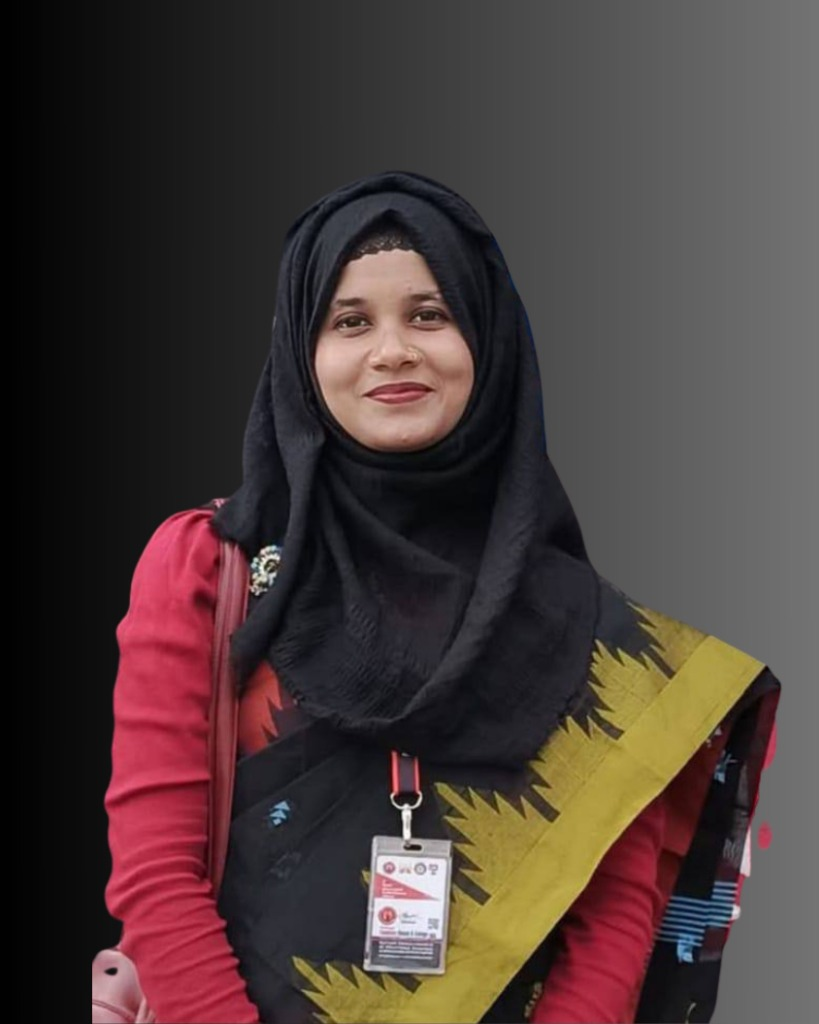
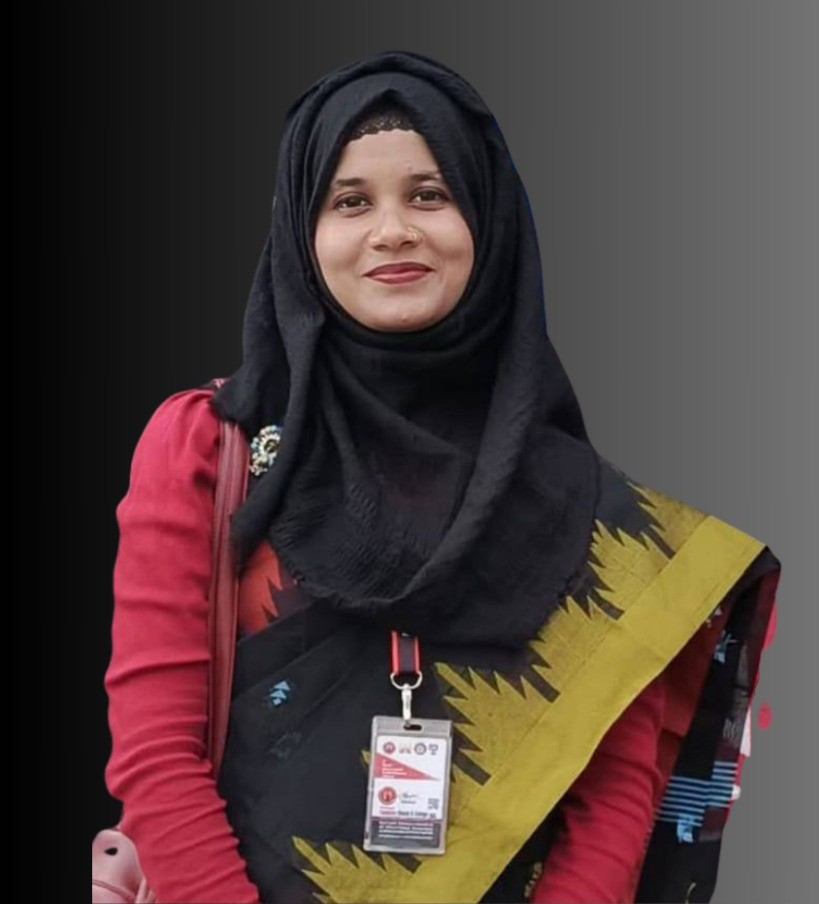
Fix hero card teacher photo cropping, height framing, and duplicate experience text

diff --git a/bioedge-frontend/src/components/home/ReferenceHeroSection.tsx b/bioedge-frontend/src/components/home/ReferenceHeroSection.tsx
@@ -84,7 +84,7 @@ export const ReferenceHeroSection: React.FC = () => {
 
               <div className="teacher-card-footer">
                 <div className="teacher-name-title">{teacher.name}</div>
-                <div className="teacher-exp-tag">{teacher.experience} Experience</div>
+                <div className="teacher-exp-tag">{teacher.experience.toLowerCase().includes('experience') ? teacher.experience : `${teacher.experience} Experience`}</div>
               </div>
             </div>
           </div>

diff --git a/bioedge-frontend/src/index.css b/bioedge-frontend/src/index.css
@@ -2046,7 +2046,7 @@ section, .public-section, .homepage-wrapper > section, [id] {
 
 .teacher-card-portrait-frame {
   width: 100%;
-  height: 155px;
+  height: 180px;
   border-radius: 14px;
   overflow: hidden;
   background: #12281A;
@@ -2056,7 +2056,7 @@ section, .public-section, .homepage-wrapper > section, [id] {
   width: 100%;
   height: 100%;
   object-fit: cover;
-  object-position: top center;
+  object-position: center 12%;
 }
 
 .teacher-card-footer {
